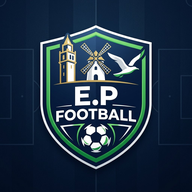
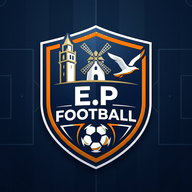
Local: puntos por competicion, iconos naranja, aviso iOS

diff --git a/index.html b/index.html
@@ -266,6 +266,7 @@ body.role-coach .manager-only-el{opacity:0.3;pointer-events:none;cursor:not-allo
 <!-- ═══════════ RESUMEN ═══════════ -->
 <div id="sec-resumen" class="section active">
   <div id="res-stats" class="g4" style="margin-bottom:16px"></div>
+  <div id="res-comp"></div>
   <div class="g3">
     <div class="card"><div class="card-title">📊 Progreso por Fase</div><div id="res-fases"></div></div>
     <div class="card"><div class="card-title">🏆 Top Jugadores ★</div><div id="res-top"></div></div>
@@ -1190,24 +1191,95 @@ function updateHeader(){
 function getPartidoTotales(p){
   let gf=0,gc=0;
   p.periodos.forEach(pe=>{gf+=pe.goles.filter(g=>!g.esPropio).length;gc+=pe.goles.filter(g=>g.esPropio).length+(pe.golesRival||0);});
+  const _of=_resOficial(p);if(_of){gf=_of.gf;gc=_of.gc;}
   const r=gf>gc?"V":gf===gc?"E":"D";
   return{gf,gc,r,pts:r==="V"?3:r==="E"?1:0};
 }
+
+// ─── Competiciones: puntos y estadísticas separados por tipo de partido ───
+function _resOficial(p){
+  var r=p&&p.resultadoFinal;if(!r||typeof r!=="string")return null;
+  var m=r.split("-");if(m.length!==2||m[0].trim()===""||m[1].trim()===""||isNaN(+m[0])||isNaN(+m[1]))return null;
+  return{gf:+m[0],gc:+m[1]};
+}
+function _partidoJugado(p){
+  if(!p||!p.rival)return false;
+  if(_resOficial(p))return true;
+  return p.periodos.some(function(pe){return pe.goles.length>0||pe.golesRival>0;});
+}
+function statsComp(){
+  var out={};
+  PARTIDOS.forEach(function(p){
+    if(!_partidoJugado(p))return;
+    var k=p.tipo||"Amistoso";
+    var o=out[k]||(out[k]={pj:0,v:0,e:0,d:0,gf:0,gc:0,pts:0});
+    var t=getPartidoTotales(p);
+    o.pj++;o.gf+=t.gf;o.gc+=t.gc;
+    if(t.r==="V"){o.v++;o.pts+=3;}else if(t.r==="E"){o.e++;o.pts+=1;}else o.d++;
+  });
+  return out;
+}
+function compOrden(sc){
+  var base=TCOMP.slice();
+  Object.keys(sc).forEach(function(k){if(base.indexOf(k)<0)base.push(k);});
+  return base;
+}
+function compGuardada(){var v=null;try{v=localStorage.getItem("et_comp");}catch(e){}return v||"auto";}
+function compSel(sc){
+  var g=compGuardada();
+  if(g!=="auto"&&(g==="todos"||sc[g]||TCOMP.indexOf(g)>=0))return g;
+  if(sc["2ª Fase"])return "2ª Fase";
+  if(sc["1ª Fase"])return "1ª Fase";
+  var otros=Object.keys(sc).filter(function(k){return k!=="Amistoso";});
+  return otros.length?otros[0]:"1ª Fase";
+}
+function compNombre(k){return k==="todos"?"Todas":k;}
+function setComp(k){
+  try{localStorage.setItem("et_comp",k);}catch(e){}
+  try{renderResumen();}catch(e){}
+  try{renderPartidos();}catch(e){}
+}
+function compChipsHtml(sc,sel){
+  var g=compGuardada();
+  var chip=function(k,label,act){return '<button data-k="'+String(k).replace(/"/g,"&quot;")+'" onclick="setComp(this.dataset.k)" style="border:1px solid '+(act?"#1E3A5F":"#CBD5E1")+';background:'+(act?"#1E3A5F":"white")+';color:'+(act?"white":"#475569")+';border-radius:16px;padding:5px 11px;font-size:11px;font-weight:700;cursor:pointer;white-space:nowrap">'+label+'</button>';};
+  var h='<div style="display:flex;gap:6px;flex-wrap:wrap;align-items:center;margin-bottom:12px"><span style="font-size:11px;font-weight:700;color:#64748B">Competición:</span>';
+  h+=chip("auto","Auto",g==="auto");
+  compOrden(sc).forEach(function(k){var n=sc[k]?sc[k].pj:0;h+=chip(k,k+(n?" ("+n+")":""),g!=="auto"&&sel===k);});
+  h+=chip("todos","Todas",g==="todos");
+  return h+'</div>';
+}
+function renderCompCard(id){
+  var el=document.getElementById(id);if(!el)return;
+  var sc=statsComp(),sel=compSel(sc),ks=compOrden(sc).filter(function(k){return sc[k];});
+  var h='<div class="card" style="margin-bottom:16px"><div class="card-title">🏆 Puntos por competición</div>'+compChipsHtml(sc,sel);
+  if(!ks.length){h+='<p style="color:#94A3B8;font-size:12px;text-align:center;padding:12px">Aún no hay partidos jugados.</p>';}
+  else{
+    h+='<div style="overflow-x:auto"><table style="width:100%;border-collapse:collapse;font-size:12px;min-width:340px"><thead><tr style="color:#64748B;text-align:center"><th style="text-align:left;padding:6px 4px">Competición</th><th>PJ</th><th>V</th><th>E</th><th>D</th><th>GF</th><th>GC</th><th>Pts</th></tr></thead><tbody>';
+    ks.forEach(function(k){
+      var o=sc[k],am=(k==="Amistoso"),act=(sel===k||sel==="todos");
+      h+='<tr style="text-align:center;border-top:1px solid #E2E8F0;'+(act?'background:#EFF6FF;font-weight:700;':'')+(am?'color:#64748B;':'')+'"><td style="text-align:left;padding:7px 4px">'+esc(k)+(am?' <span style="font-size:10px;font-weight:400">(no puntúa en liga)</span>':'')+'</td><td>'+o.pj+'</td><td>'+o.v+'</td><td>'+o.e+'</td><td>'+o.d+'</td><td>'+o.gf+'</td><td>'+o.gc+'</td><td style="font-weight:800;color:'+(am?'#94A3B8':'#1E3A5F')+'">'+(am?'—':o.pts)+'</td></tr>';
+    });
+    h+='</tbody></table></div>';
+  }
+  el.innerHTML=h+'</div>';
+}
+
 function renderResumen(){
   const comp=SESIONES.filter(s=>s.completada).length;
   const pct=Math.round(comp/150*100);
-  const jugados=PARTIDOS.filter(p=>p.rival&&p.periodos.some(pe=>pe.goles.length>0||pe.golesRival>0));
-  let pts=0,pg=0,pe=0,pp=0,gf=0,gc=0;
-  jugados.forEach(p=>{const t=getPartidoTotales(p);if(t.r==="V"){pg++;pts+=3;}else if(t.r==="E"){pe++;pts++;}else pp++;gf+=t.gf;gc+=t.gc;});
+  const _sc=statsComp(),_sel=compSel(_sc);
+  let pts=0,pg=0,pe=0,pp=0,gf=0,gc=0,njug=0;
+  (_sel==="todos"?Object.keys(_sc):[_sel]).forEach(k=>{const o=_sc[k];if(!o)return;pts+=o.pts;pg+=o.v;pe+=o.e;pp+=o.d;gf+=o.gf;gc+=o.gc;njug+=o.pj;});
   const gd=gf-gc;
   const mEq=()=>{const v=JUGADORES.flatMap(j=>PEVAL.flatMap(p=>Object.values(j.evaluaciones[p]||{}).filter(x=>x>0)));return v.length?(v.reduce((a,b)=>a+b,0)/v.length).toFixed(1):"—";};
 
   document.getElementById("res-stats").innerHTML=[
     [comp+"/150","Sesiones completadas",pct+"% temporada","#16A34A"],
-    [pts,"Puntos liga",`${pg}V ${pe}E ${pp}D`,"#1E3A5F"],
+    [pts,"Puntos · "+compNombre(_sel),`${pg}V ${pe}E ${pp}D`,"#1E3A5F"],
     [mEq(),"Media equipo ★","Evaluación /5","#F97316"],
     [CLUB.sistema||"—","Sistema",`Variante: ${CLUB.variante||"—"}`,"#7C3AED"]
   ].map(([v,l,s,c])=>`<div class="statbox"><div class="val" style="color:${c}">${v}</div><div class="lbl">${l}</div><div class="sub">${s}</div></div>`).join("");
+  renderCompCard("res-comp");
 
   let fasesHtml="";
   Object.entries(FASES).forEach(([f,fi])=>{
@@ -1771,17 +1843,17 @@ function updSesFecha(num,v){const s=SESIONES.find(x=>x.num===num);if(s){s.fechaR
 // ═══════════════════════════════════════════════════════════════
 function renderPartidos(){
   if(partidoAbierto!==null){renderPartidoDetalle();return;}
-  const jugados=PARTIDOS.filter(p=>p.rival&&p.periodos.some(pe=>pe.goles.length>0||pe.golesRival>0));
-  let pts=0,pg=0,pe=0,pp=0,gf=0,gc=0;
-  jugados.forEach(p=>{const t=getPartidoTotales(p);if(t.r==="V"){pg++;pts+=3;}else if(t.r==="E"){pe++;pts++;}else pp++;gf+=t.gf;gc+=t.gc;});
+  const _sc=statsComp(),_sel=compSel(_sc);
+  let pts=0,pg=0,pe=0,pp=0,gf=0,gc=0,njug=0;
+  (_sel==="todos"?Object.keys(_sc):[_sel]).forEach(k=>{const o=_sc[k];if(!o)return;pts+=o.pts;pg+=o.v;pe+=o.e;pp+=o.d;gf+=o.gf;gc+=o.gc;njug+=o.pj;});
   const gd=gf-gc;
-  let html=`<div style="display:grid;grid-template-columns:repeat(7,1fr);gap:8px;margin-bottom:16px">
-    ${[["PTS",pts,"#1E3A5F"],["PJ",jugados.length,"#374151"],["PG",pg,"#16A34A"],["PE",pe,"#D97706"],["PP",pp,"#DC2626"],["GF",gf,"#2563EB"],["GD",(gd>=0?"+":"")+gd,"#7C3AED"]].map(([l,v,c])=>`
+  let html=compChipsHtml(_sc,_sel)+`<div style="display:grid;grid-template-columns:repeat(7,1fr);gap:8px;margin-bottom:16px">
+    ${[["PTS",pts,"#1E3A5F"],["PJ",njug,"#374151"],["PG",pg,"#16A34A"],["PE",pe,"#D97706"],["PP",pp,"#DC2626"],["GF",gf,"#2563EB"],["GD",(gd>=0?"+":"")+gd,"#7C3AED"]].map(([l,v,c])=>`
       <div class="statbox"><div class="val" style="color:${c};font-size:20px">${v}</div><div class="lbl">${l}</div></div>`).join("")}
   </div>
   <div style="display:grid;grid-template-columns:1fr 1fr;gap:8px">`;
   PARTIDOS.forEach(p=>{
-    const hasData=p.rival&&p.periodos.some(pe=>pe.goles.length>0||pe.golesRival>0);
+    const hasData=_partidoJugado(p);
     const t=hasData?getPartidoTotales(p):null;
     const rCol=t?(t.r==="V"?"#16A34A":t.r==="E"?"#D97706":"#DC2626"):"#E2E8F0";
     const rBg=t?(t.r==="V"?"#DCFCE7":t.r==="E"?"#FEF3C7":"#FEE2E2"):"#F8FAFC";
@@ -5874,7 +5946,13 @@ window.addEventListener('beforeinstallprompt',function(e){
   var b=document.getElementById('btn-instalar-app');if(b)b.style.display='';
 });
 window.addEventListener('appinstalled',function(){_ev=null;var b=document.getElementById('btn-instalar-app');if(b)b.style.display='none';});
+var _esIOS=/iphone|ipad|ipod/i.test(navigator.userAgent)||(navigator.platform==='MacIntel'&&navigator.maxTouchPoints>1);
+var _yaApp=!!(window.navigator.standalone)||(window.matchMedia&&window.matchMedia('(display-mode: standalone)').matches);
+var _esNat=!!(window.Capacitor&&Capacitor.isNativePlatform&&Capacitor.isNativePlatform());
+// iOS no dispara beforeinstallprompt: mostramos el botón con instrucciones manuales
+if(_esIOS&&!_yaApp&&!_esNat){var _b=document.getElementById('btn-instalar-app');if(_b)_b.style.display='';}
 window.instalarApp=function(){
+  if(_esIOS&&!_ev){alert('Para instalarla en iPhone/iPad:\n\n1. Ábrela en Safari.\n2. Pulsa el botón Compartir (cuadrado con flecha hacia arriba).\n3. Elige «Añadir a pantalla de inicio» y confirma.');return;}
   if(!_ev){alert('Para instalarla: abre el menú del navegador (⋮) y pulsa «Instalar aplicación» o «Añadir a pantalla de inicio».');return;}
   _ev.prompt();_ev.userChoice.finally(function(){_ev=null;var b=document.getElementById('btn-instalar-app');if(b)b.style.display='none';});
 };
